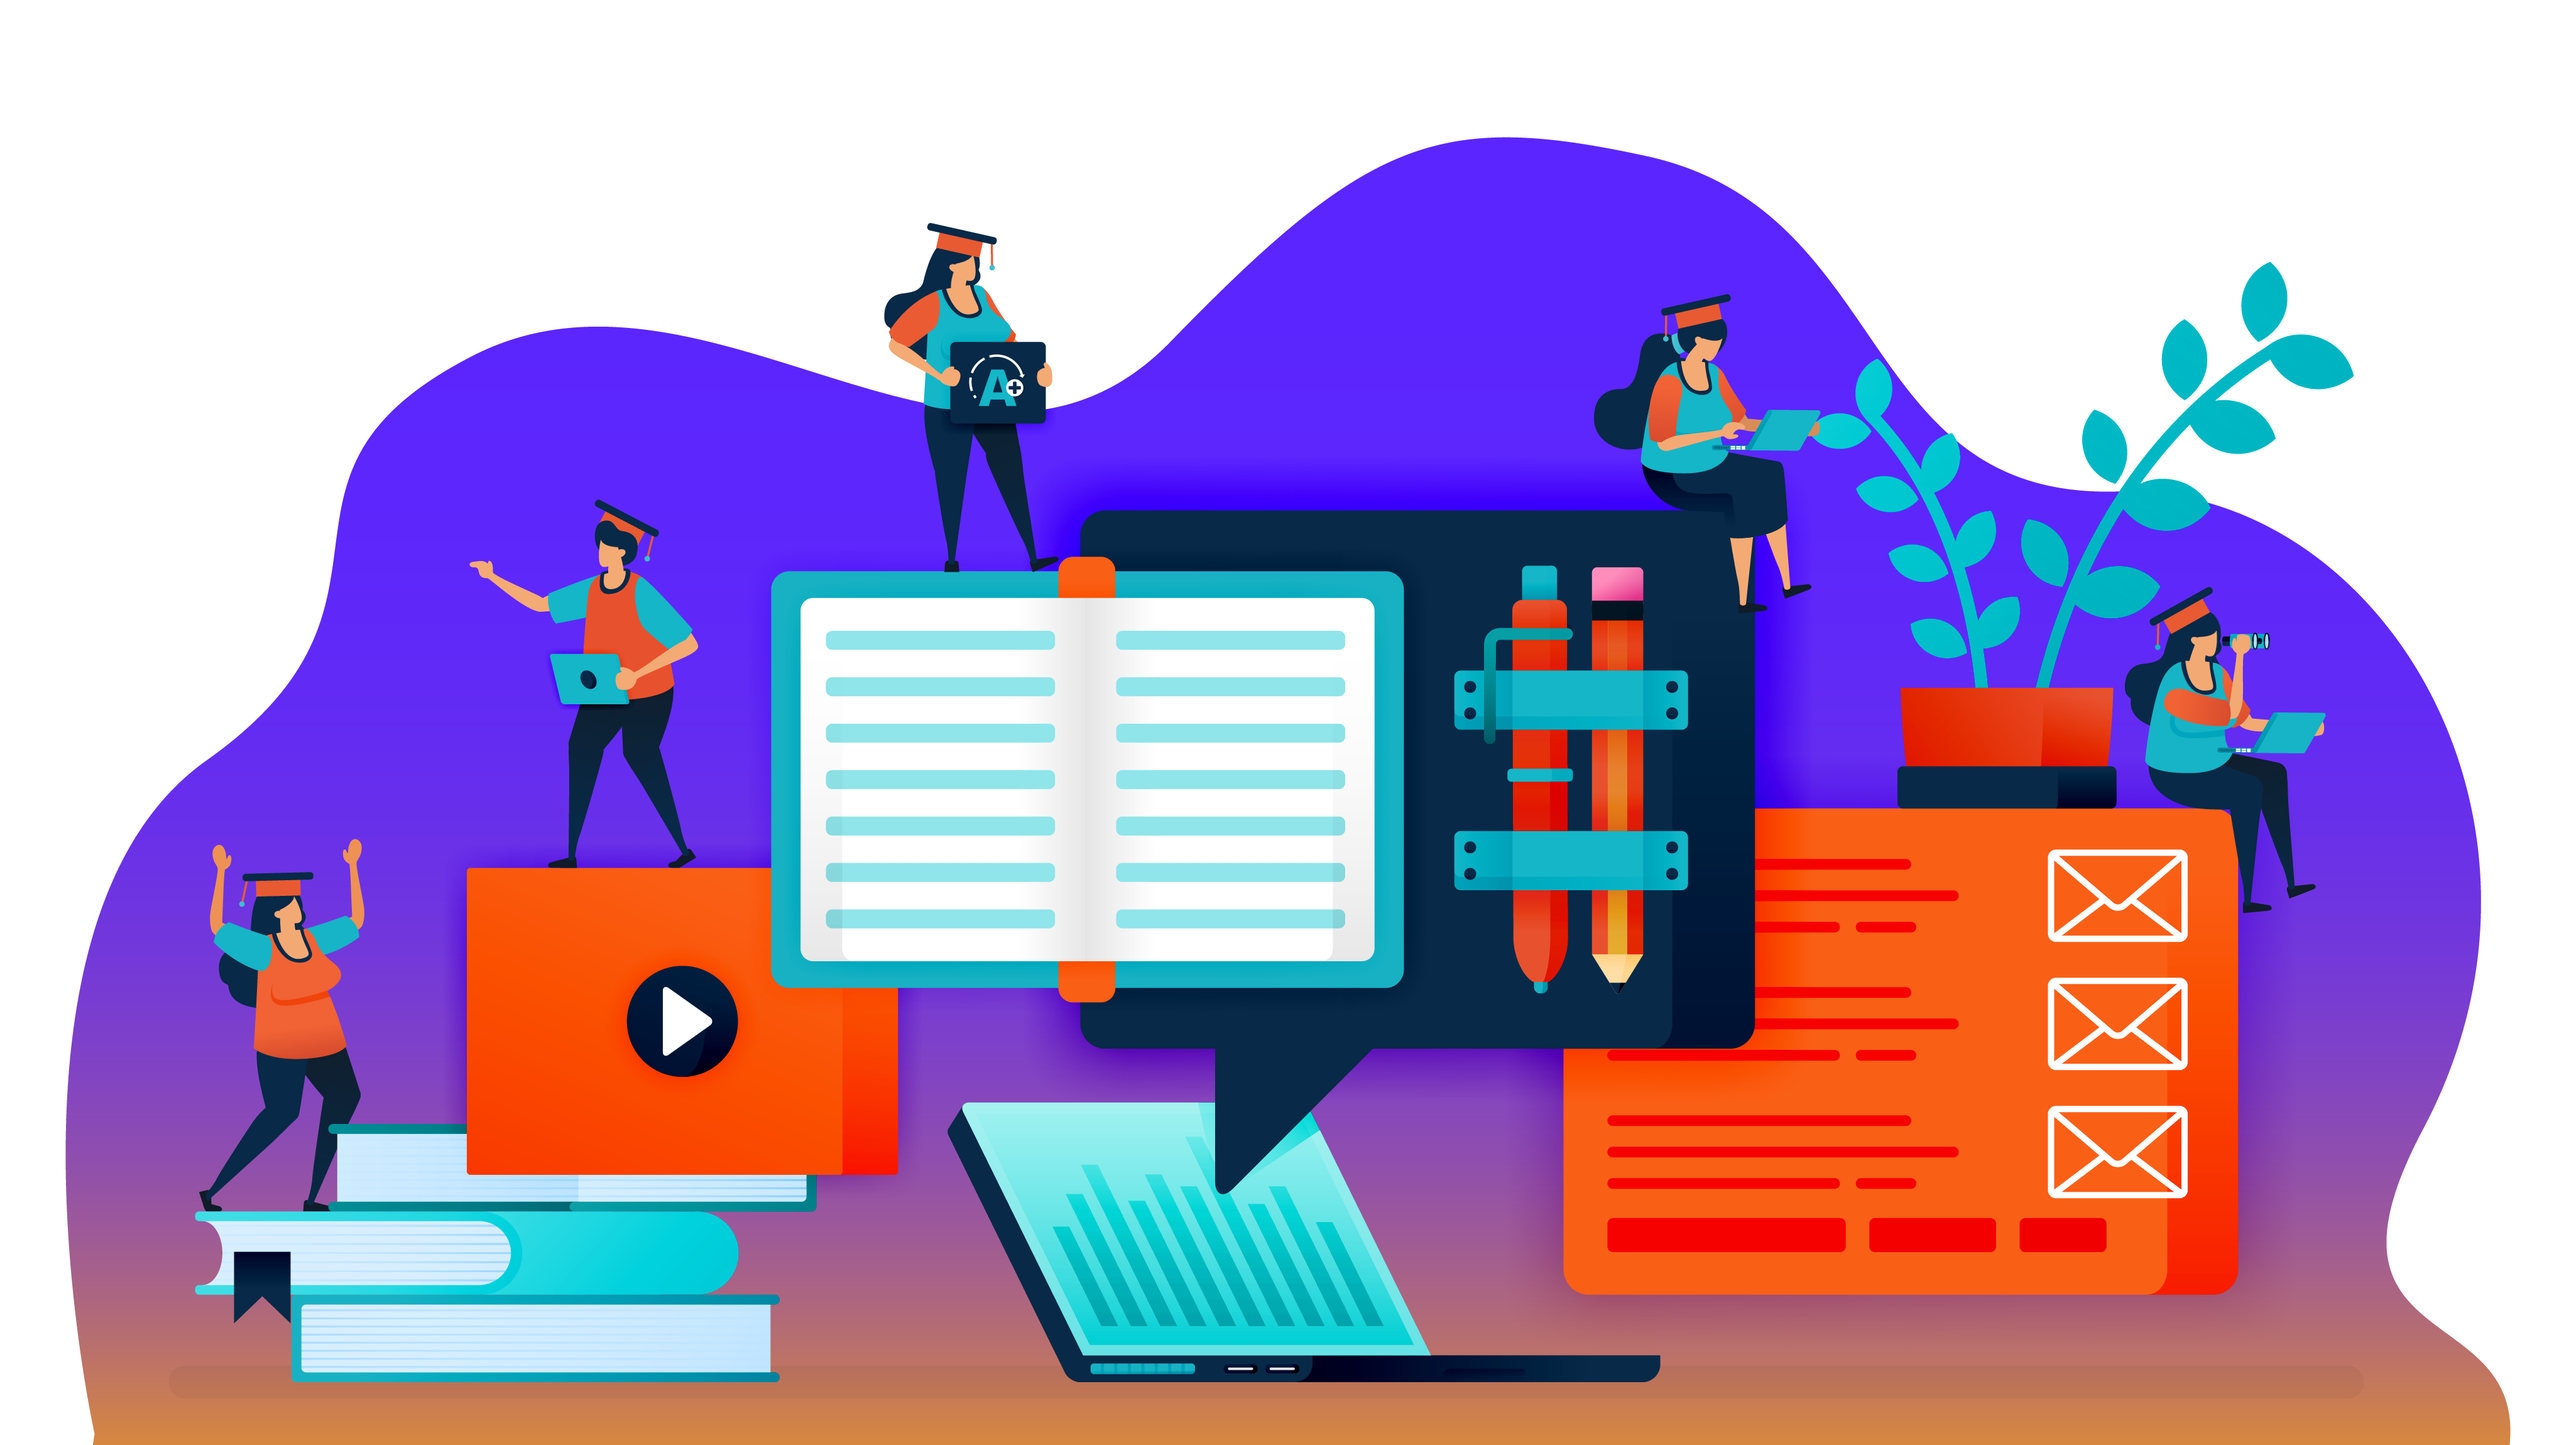
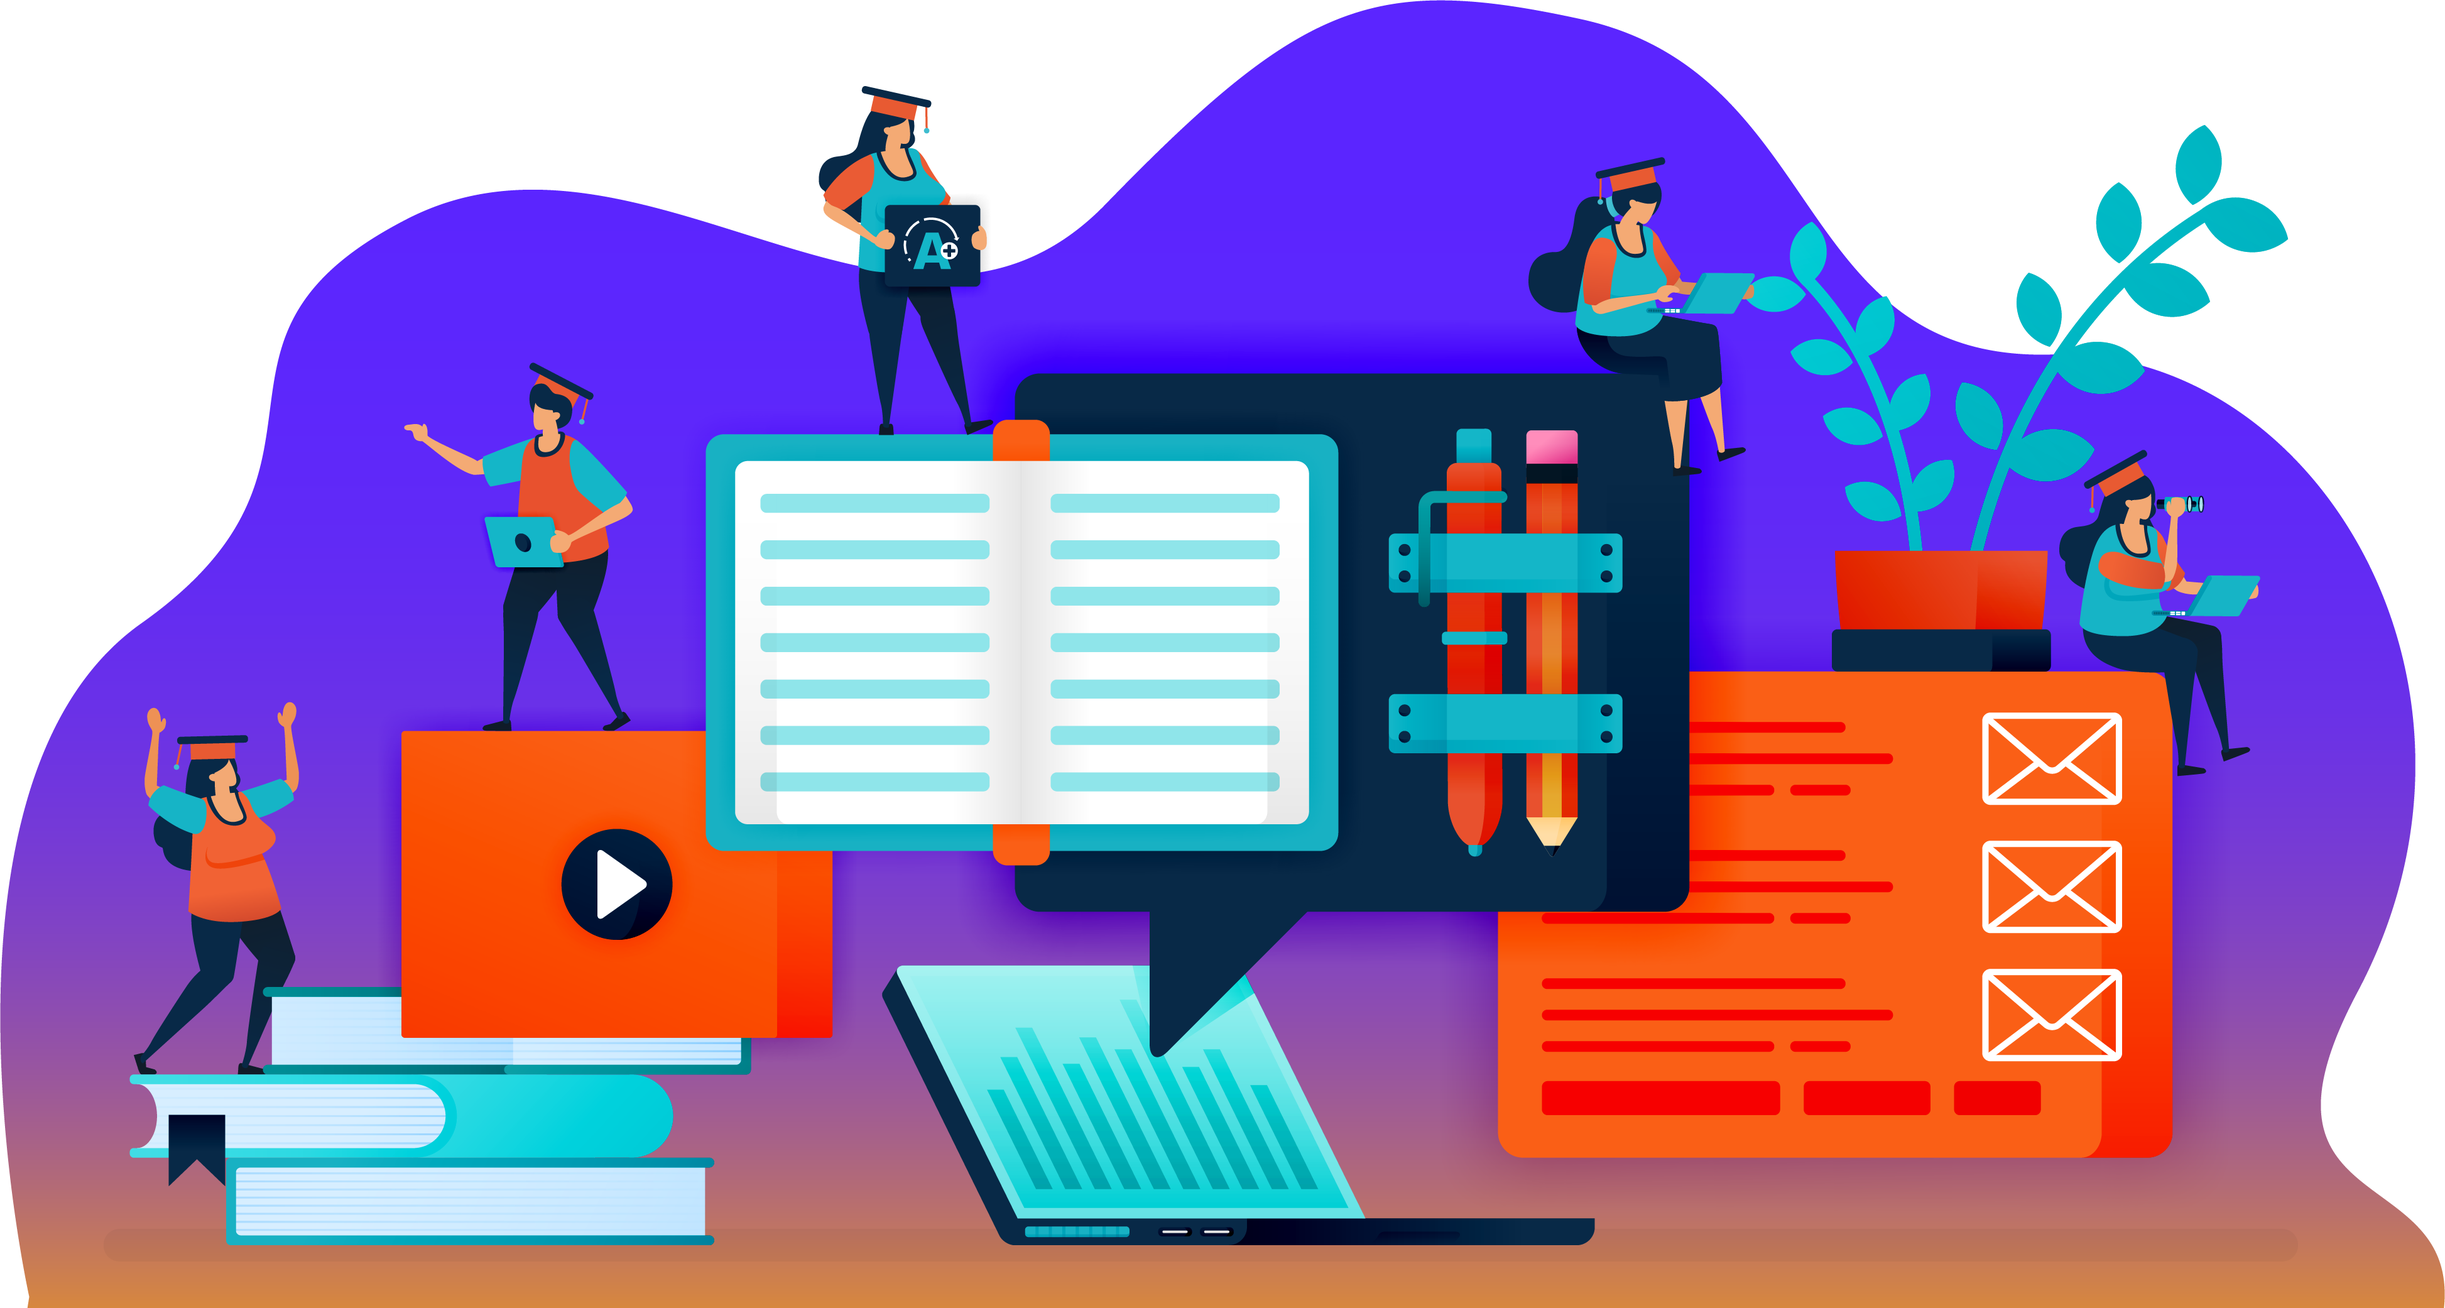
work in progress

diff --git a/client/home.html b/client/home.html
@@ -13,7 +13,7 @@
         crossorigin="anonymous"></script>
 </head>
 
-<body>
+<body id="body">
 
     <!--navbar-->
     <nav class="navbar navbar-expand-md navbar-light bg-faded justify-content-center">
@@ -36,8 +36,6 @@
                         <ul class="dropdown-menu " aria-labelledby="navbarScrollingDropdown">
                             <li><a class="dropdown-item" href="#">Computer Science</a></li>
                             <li><a class="dropdown-item" href="#">Engineering</a></li>
-
-
                         </ul>
                     </li>
 
@@ -48,33 +46,35 @@
                         <a class="nav-link" href="cart.php">Cart</a>
                     </li>
                     <li class="nav-item ms-2 d-none d-md-inline">
-                        <a class="btn btn-secondary" href="Login.php">Log in</a>
+                        <a id="loginhomebtn" class="btn btn-primary ms-lg-3" href="Login.php">Log in</a>
                     </li>
                     <li class="nav-item ms-2 d-none d-md-inline">
-                        <a class="btn btn-secondary" href="signup.php">Sign up</a>
+                        <a id="signuphomebtn" class="btn btn-primary" href="signup.php">Sign up</a>
                     </li>
 
                 </ul>
             </div>
         </div>
     </nav>
-    <section id="intro"></section>
-    <img src="images/Illustration.png" class="img-fluid" id="illustration" alt="Responsive image">
-    <h1 id="welcome"><b>Welcome</b> to </h1>
-    <h1 id="edupedia"><b>Edupedia</b></h1>
-    <svg id="wave" style="transform:rotate(0deg); transition: 0.3s" viewBox="0 0 1440 490" version="1.1"
-        xmlns="http://www.w3.org/2000/svg">
-        <defs>
-            <linearGradient id="sw-gradient-0" x1="0" x2="0" y1="1" y2="0">
-                <stop stop-color="rgba(255, 167.47, 0, 1)" offset="0%"></stop>
-                <stop stop-color="rgba(91.055, 37.031, 255, 1)" offset="100%"></stop>
-            </linearGradient>
-        </defs>
-        <path style="transform:translate(0, 0px); opacity:1" fill="url(#sw-gradient-0)"
-            d="M0,343L80,343C160,343,320,343,480,285.8C640,229,800,114,960,57.2C1120,0,1280,0,1440,32.7C1600,65,1760,131,1920,163.3C2080,196,2240,196,2400,204.2C2560,212,2720,229,2880,220.5C3040,212,3200,180,3360,187.8C3520,196,3680,245,3840,236.8C4000,229,4160,163,4320,130.7C4480,98,4640,98,4800,122.5C4960,147,5120,196,5280,228.7C5440,261,5600,278,5760,302.2C5920,327,6080,359,6240,383.8C6400,408,6560,425,6720,424.7C6880,425,7040,408,7200,383.8C7360,359,7520,327,7680,277.7C7840,229,8000,163,8160,179.7C8320,196,8480,294,8640,343C8800,392,8960,392,9120,383.8C9280,376,9440,359,9600,294C9760,229,9920,114,10080,130.7C10240,147,10400,294,10560,351.2C10720,408,10880,376,11040,326.7C11200,278,11360,212,11440,179.7L11520,147L11520,490L11440,490C11360,490,11200,490,11040,490C10880,490,10720,490,10560,490C10400,490,10240,490,10080,490C9920,490,9760,490,9600,490C9440,490,9280,490,9120,490C8960,490,8800,490,8640,490C8480,490,8320,490,8160,490C8000,490,7840,490,7680,490C7520,490,7360,490,7200,490C7040,490,6880,490,6720,490C6560,490,6400,490,6240,490C6080,490,5920,490,5760,490C5600,490,5440,490,5280,490C5120,490,4960,490,4800,490C4640,490,4480,490,4320,490C4160,490,4000,490,3840,490C3680,490,3520,490,3360,490C3200,490,3040,490,2880,490C2720,490,2560,490,2400,490C2240,490,2080,490,1920,490C1760,490,1600,490,1440,490C1280,490,1120,490,960,490C800,490,640,490,480,490C320,490,160,490,80,490L0,490Z">
-        </path>
-    </svg>
-    </section>
+
+    <div class="intro vh-100 d-flex align-items-center" id="intro">
+        <div class="container">
+            <div class="row">
+                <div class="col-lg-5">
+                    <h1 id="welcome"><b>Welcome</b> to </h1>
+                    <h1 id="edupedia"><b>Edupedia</b></h1>
+                    <a id="link" href="#" class="btn btn-primary">Get started</a>
+
+                </div>
+                <div class="col-md-6">
+                    <img id="illustration" src="../server/images/illustration.png" class="img-fluid"
+                        alt="Responsive image">
+                </div>
+            </div>
+        </div>
+    </div>
+
+
 
 
 </body>

diff --git a/server/styles/styles.css b/server/styles/styles.css
@@ -52,28 +52,53 @@
 }
 
 /*Home Page*/
-.navbar{
-    background-color: transparent !important ;
-    background-image: url("images/wave.png");
+
+
+:root{
+    --primary: #5B25FF;
+    --dark: rgb(17, 16, 16);
+    --body: #363EE0;
+    --box-shadow: 0 8px 22px rgba(0,0,0,0,1);
+    --active:#FFA700;
 }
+#body{
+    font-family: "Open Sans", sans-serif;
+    line-height: 1.7;
+    color: var(--body);
+}
+#intro{
+    
+}
+#illustration{
+    height: 300px;
+    width: 800px;
+
+}
+#loginhomebtn{
+    background-color: transparent;
+    color: var(--primary);
+}
+#signuphomebtn{
+    background-color: transparent;
+    color: var(--primary);
+}
+#signuphomebtn:hover{
+    background-color: var(--dark);
+}
+#signuphomebtn:active{
+    background-color: var(--active);
+}
+
+#loginhomebtn:hover{
+    background-color: var(--dark);
+}
+#loginhomebtn:active{
+    background-color: var(--active);
+}
+
 .navbar .navbar-brand{
     color:#5B25FF !important;
     font-weight: bolder;
 }
-#welcome{
-    color:#363EE0;
-    font-family: "Open Sans", sans-serif;
-    font-size: 50px;
-    padding-top: 150px;
-    padding-left: 40px;
-}
-#edupedia{
-    color:#363EE0;
-    font-family: "Open Sans", sans-serif;
-    font-size: 50px;
-    padding-left: 40px;
-}
-#wave{
-    padding-bottom: 100px;
-}
+
 
